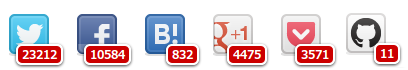
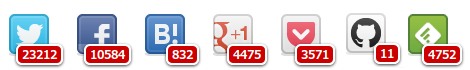
Feedlyに対応

diff --git a/js/jquery.popn-socialbutton.js b/js/jquery.popn-socialbutton.js
@@ -1,8 +1,7 @@
-/*jshint white:false, eqnull:true, immed:false, boss:true, jquery:true, forin:false */
+// Generated by CoffeeScript 1.8.0
 
-// Generated by CoffeeScript 1.6.3
 /*!
-* jQuery POP'n SocialButton v0.1.8
+* jQuery POP'n SocialButton v0.1.9
 *
 * http://github.com/ktty1220/jquery.popn-socialbutton
 *
@@ -17,8 +16,7 @@
 *
 * Copyright (c) 2013 ktty1220 ktty1220@gmail.com
 * Licensed under the MIT license
-*/
-
+ */
 
 (function() {
   (function(jQuery) {
@@ -26,8 +24,7 @@
     var $;
     $ = jQuery;
     return $.fn.popnSocialButton = function(services, options) {
-      var exOptions, iconSize, idx, mkYQL, popnUp, sName, scheme, servicesProp, _addLink, _i, _len,
-        _this = this;
+      var exOptions, iconSize, idx, mkYQL, popnUp, sName, scheme, servicesProp, _addLink, _i, _len;
       if (options == null) {
         options = {};
       }
@@ -54,13 +51,21 @@
         }
       }, options);
       exOptions.urlOrg = exOptions.url;
-      exOptions.url = encodeURIComponent(exOptions.url);
+      exOptions.url = encodeURIComponent(exOptions.urlOrg);
       exOptions.text = encodeURIComponent(exOptions.text);
       iconSize = 44;
       popnUp = 4;
       scheme = /https/.test(document.location.protocol) ? 'https' : 'http';
-      mkYQL = function(url) {
-        return "" + scheme + "://query.yahooapis.com/v1/public/yql?env=http://datatables.org/alltables.env&q=" + (encodeURIComponent("SELECT content FROM data.headers WHERE url='" + url + "' and ua='Mozilla/5.0 (compatible; MSIE 9.0; Windows NT 5.1)'"));
+      mkYQL = function(url, wantJson) {
+        var yUrl;
+        if (wantJson == null) {
+          wantJson = false;
+        }
+        yUrl = "" + scheme + "://query.yahooapis.com/v1/public/yql?env=http://datatables.org/alltables.env&q=" + (encodeURIComponent("SELECT content FROM data.headers WHERE url='" + url + "' and ua='Mozilla/5.0 (compatible; MSIE 9.0; Windows NT 5.1)'"));
+        if (wantJson) {
+          yUrl += '&format=json';
+        }
+        return yUrl;
       };
       servicesProp = {
         twitter: {
@@ -80,12 +85,12 @@
           shareUrl: "https://www.facebook.com/sharer.php?u=" + exOptions.url + "&t=" + exOptions.text,
           countUrl: "https://graph.facebook.com/" + exOptions.url,
           jsonpFunc: function(json, cb) {
+
             /*
             * - Graph APIでsharesが取得できない場合はFQLでtotal_countを取得する
             * - Graph APIのlikes + FQLのtotal_countでいいねボタンと同じ件数になる模様(いくつかのケースを調べた結果)
             * - ほとんどのサイトではFQLのtotal_countだけでいいねボタンと同じ件数になる
-            */
-
+             */
             var graphLikes, _ref;
             if (json.shares != null) {
               return cb(json.shares);
@@ -115,12 +120,12 @@
           img: 'google+1_2x.png',
           alt: 'Google Plus Share Button',
           shareUrl: "https://plusone.google.com/share?url=" + exOptions.url,
+
           /*
           * - Google+1ボタンはシェア数に関するjsonpを提供していない(jsonすら提供していない)ので+1ボタンのhtmlを取得してその中から件数を取得する
           * - クロスドメインによる取得になるのでYQLを使用する
           * - ただしgoogleのサーバーに設置してあるrobots.txtはYQL(というかYahooのロボット全般？)のUAを拒否するのでOpen Data Tableのdata.headerプラグインを使用する
-          */
-
+           */
           countUrl: mkYQL("https://plusone.google.com/_/+1/fastbutton?hl=ja&url=" + exOptions.urlOrg),
           jsonpFunc: function(json, cb) {
             var count, m, _ref;
@@ -138,10 +143,10 @@
           img: 'pocket_2x.png',
           alt: 'Pocket Stock Button',
           shareUrl: "https://getpocket.com/save?url=" + exOptions.url + "&title=" + exOptions.text,
+
           /*
           * Google+1ボタンと同様にYQLでカウントを取得する
-          */
-
+           */
           countUrl: mkYQL("https://widgets.getpocket.com/v1/button?label=pocket&count=vertical&align=left&v=1&url=" + exOptions.urlOrg + "&src=" + exOptions.urlOrg + "&r=" + (Math.random() * 100000000)),
           jsonpFunc: function(json, cb) {
             var count, m, _ref;
@@ -155,6 +160,20 @@
             return cb(count);
           }
         },
+        feedly: {
+          img: 'feedly_2x.png',
+          alt: 'Feedly Follow Button',
+          shareUrl: "https://feedly.com/index.html#subscription%2Ffeed%2F" + exOptions.feedUrl,
+
+          /*
+          * Google+1ボタンと同様にYQLでカウントを取得する
+           */
+          countUrl: mkYQL("https://cloud.feedly.com/v3/feeds/feed%2F" + (encodeURIComponent(exOptions.feedUrl)), true),
+          jsonpFunc: function(json, cb) {
+            var _ref, _ref1, _ref2, _ref3, _ref4, _ref5;
+            return cb((_ref = json != null ? (_ref1 = json.query) != null ? (_ref2 = _ref1.results) != null ? (_ref3 = _ref2.resources) != null ? (_ref4 = _ref3.content) != null ? (_ref5 = _ref4.json) != null ? _ref5.subscribers : void 0 : void 0 : void 0 : void 0 : void 0 : void 0) != null ? _ref : 0);
+          }
+        },
         github: {
           img: 'github_alt_2x.png',
           alt: 'GitHub Repository',
@@ -162,83 +181,85 @@
           commentUrl: "https://github.com/" + exOptions.githubRepo + "/stargazers",
           countUrl: "https://api.github.com/repos/" + exOptions.githubRepo,
           jsonpFunc: function(json, cb) {
-            var _ref;
-            return cb((_ref = json.data.watchers) != null ? _ref : 0);
+            var _ref, _ref1;
+            return cb((_ref = json != null ? (_ref1 = json.data) != null ? _ref1.watchers : void 0 : void 0) != null ? _ref : 0);
           }
         }
       };
-      _addLink = function(name, prop, idx) {
-        var countTag, countTagType, imgTag, shareTag, wrapTag;
-        wrapTag = $('<div/>').attr({
-          "class": "popn-socialbutton-wrap " + name
-        }).css({
-          'float': 'left',
-          position: 'relative',
-          width: iconSize,
-          height: iconSize,
-          marginTop: popnUp
-        });
-        if (idx > 0) {
-          wrapTag.css({
-            marginLeft: exOptions.buttonSpace
+      _addLink = (function(_this) {
+        return function(name, prop, idx) {
+          var countTag, countTagType, imgTag, shareTag, wrapTag;
+          wrapTag = $('<div/>').attr({
+            "class": "popn-socialbutton-wrap " + name
+          }).css({
+            'float': 'left',
+            position: 'relative',
+            width: iconSize,
+            height: iconSize,
+            marginTop: popnUp
           });
-        }
-        shareTag = $('<a/>').attr({
-          href: prop.shareUrl,
-          "class": 'popn-socialbutton-share',
-          target: '_blank'
-        }).css({
-          outline: 'none',
-          display: 'block',
-          width: '100%',
-          height: '100%'
-        });
-        imgTag = $('<img/>').attr({
-          src: "" + exOptions.imgDir + "/" + prop.img,
-          alt: prop.alt
-        }).css({
-          border: 'none'
-        });
-        countTagType = prop.commentUrl ? 'a' : 'span';
-        countTag = $("<" + countTagType + "/>").attr({
-          "class": 'popn-socialbutton-count'
-        });
-        if (countTagType === 'a') {
-          countTag.attr({
-            href: prop.commentUrl,
+          if (idx > 0) {
+            wrapTag.css({
+              marginLeft: exOptions.buttonSpace
+            });
+          }
+          shareTag = $('<a/>').attr({
+            href: prop.shareUrl,
+            "class": 'popn-socialbutton-share',
             target: '_blank'
+          }).css({
+            outline: 'none',
+            display: 'block',
+            width: '100%',
+            height: '100%'
           });
-        } else {
-          countTag.css({
-            cursor: 'default'
+          imgTag = $('<img/>').attr({
+            src: "" + exOptions.imgDir + "/" + prop.img,
+            alt: prop.alt
+          }).css({
+            border: 'none'
           });
-        }
-        countTag.css($.extend({}, {
-          display: 'none',
-          position: 'absolute',
-          color: exOptions.countColor.text,
-          backgroundColor: exOptions.countColor.bg,
-          border: "solid 2px " + exOptions.countColor.border,
-          fontSize: exOptions.countSize,
-          textDecoration: 'none',
-          outline: 'none',
-          fontWeight: 'bold',
-          padding: '0 4px',
-          borderRadius: 6,
-          boxShadow: '0 1px 2px rgba(0, 0, 0, 0.8)',
-          zIndex: 1
-        }, exOptions.countPosition));
-        wrapTag.append(shareTag.append(imgTag)).append(countTag);
-        $(_this).append(wrapTag);
-        return $.ajax({
-          url: prop.countUrl,
-          dataType: 'jsonp'
-        }).done(function(json) {
-          return prop.jsonpFunc(json, function(count) {
-            return countTag.show().text(count);
+          countTagType = prop.commentUrl ? 'a' : 'span';
+          countTag = $("<" + countTagType + "/>").attr({
+            "class": 'popn-socialbutton-count'
           });
-        });
-      };
+          if (countTagType === 'a') {
+            countTag.attr({
+              href: prop.commentUrl,
+              target: '_blank'
+            });
+          } else {
+            countTag.css({
+              cursor: 'default'
+            });
+          }
+          countTag.css($.extend({}, {
+            display: 'none',
+            position: 'absolute',
+            color: exOptions.countColor.text,
+            backgroundColor: exOptions.countColor.bg,
+            border: "solid 2px " + exOptions.countColor.border,
+            fontSize: exOptions.countSize,
+            textDecoration: 'none',
+            outline: 'none',
+            fontWeight: 'bold',
+            padding: '0 4px',
+            borderRadius: 6,
+            boxShadow: '0 1px 2px rgba(0, 0, 0, 0.8)',
+            zIndex: 1
+          }, exOptions.countPosition));
+          wrapTag.append(shareTag.append(imgTag)).append(countTag);
+          $(_this).append(wrapTag);
+          return $.ajax({
+            url: prop.countUrl,
+            dataType: 'jsonp'
+          }).done(function(json) {
+            return prop.jsonpFunc(json, function(count) {
+              return countTag.show().text(count);
+            });
+          });
+        };
+      })(this);
       for (idx = _i = 0, _len = services.length; _i < _len; idx = ++_i) {
         sName = services[idx];
         if (servicesProp[sName] != null) {
@@ -248,7 +269,7 @@
       $(this).height(iconSize + popnUp);
       $(this).find('.popn-socialbutton-share').click(function() {
         var left, top;
-        if ($(this).parent().hasClass('github')) {
+        if (/(github|feedly)/.test($(this).parent().attr('class'))) {
           return true;
         }
         top = (screen.height / 2) - (exOptions.popupWindow.height / 2);

diff --git a/example.html b/example.html
@@ -4,19 +4,20 @@
     <meta charset="UTF-8">
     <script type="text/javascript" src="http://ajax.googleapis.com/ajax/libs/jquery/1.9.1/jquery.min.js"></script>
     <script type="text/javascript" src="./js/jquery.popn-socialbutton.js"></script>
+    <link rel="stylesheet" href="http://cdnjs.cloudflare.com/ajax/libs/highlight.js/8.2/styles/tomorrow-night.min.css"/>
+ 
+    <script src="http://cdnjs.cloudflare.com/ajax/libs/highlight.js/8.2/highlight.min.js"></script>
     <title>jQuery POP'n SocialButton サンプル</title>
     <style type="text/css">
       body {
-        margin: 0 40px;
+        width: 920px;
+        margin: 0 auto;
       }
       h2 {
         margin-top: 50px;
       }
-      pre {
-        font-family: monospace,sans-serif;
-        padding-top: 1em;
-        background-color: #eee;
-        border: solid 1px #ddd;
+      code {
+        padding: 0 !important;
       }
       .social-button.google .popn-socialbutton-count {
         position: relative;
@@ -49,30 +50,41 @@
   </head>
 
   <body>
+    <a href="https://github.com/ktty1220/jquery.popn-socialbutton" target="_blank"><img style="position: absolute; top: 0; right: 0; border: 0;" src="https://s3.amazonaws.com/github/ribbons/forkme_right_red_aa0000.png" alt="Fork me on GitHub"></a>
+
     <h1>jQuery POP'n SocialButton サンプル</h1>
 
     <h2>サンプル1: デフォルトのシェアボタン</h2>
     <div class="social-button github"></div>
-    <pre class="script">
+    <pre><code class="script">
     $('.social-button.github').popnSocialButton([ 'twitter', 'facebook', 'hatebu', 'gplus', 'pocket' ], {
       url: 'https://github.com/'
     });
-    </pre>
+    </code></pre>
 
     <h2>サンプル2: GitHubリポジトリのスター数ボタン(githubRepoオプションの指定が必要)</h2>
     <div class="social-button github-repo"></div>
-    <pre class="script">
+    <pre><code class="script">
     $('.social-button.github-repo').popnSocialButton([ 'github' ], {
       githubRepo: 'ktty1220/jquery.popn-socialbutton'
     });
-    </pre>
+    </code></pre>
 
-    <h2>サンプル3: シェア数をふきだし風にカスタマイズ</h2>
+    <h2>サンプル3: Feedly購読ボタン(feedUrlオプションの指定が必要)</h2>
+    <div class="social-button feedly"></div>
+    <pre><code class="script">
+    $('.social-button.feedly').popnSocialButton([ 'feedly' ], {
+      feedUrl: 'http://feeds.feedburner.com/hatena/b/hotentry'
+    });
+    </code></pre>
+
+    <h2>サンプル4: シェア数をふきだし風にカスタマイズ</h2>
     <div class="social-button google"></div>
-    <pre class="script">
-    $('.social-button.google').popnSocialButton([ 'facebook', 'pocket', 'gplus', 'twitter' ], {
+    <pre><code class="script">
+    $('.social-button.google').popnSocialButton([ 'facebook', 'pocket', 'gplus', 'twitter', 'feedly' ], {
       url: 'http://www.google.com/',
       text: 'ググレカス', 
+      feedUrl: 'http://feeds.feedburner.com/GoogleJapanDeveloperRelationsBlog',
       imgDir: './img',
       buttonSpace: 120,
       countPosition: {
@@ -88,9 +100,9 @@
       },
       countSize: 16
     });
-    </pre>
+    </code></pre>
     <div>上記に加えて別途CSSを指定</div>
-    <pre>
+    <pre><code>
     .social-button.google .popn-socialbutton-count {
       position: relative;
       box-shadow: none !important;
@@ -118,11 +130,12 @@
     .social-button.google a.popn-socialbutton-count:hover:after {
       border-right-color: #ddd;
     }
-    </pre>
+    </code></pre>
     <script type="text/javascript">
       $(function () {
         eval($('.script').text());
       });
     </script>
+    <script>hljs.initHighlightingOnLoad();</script>
   </body>
 </html>
